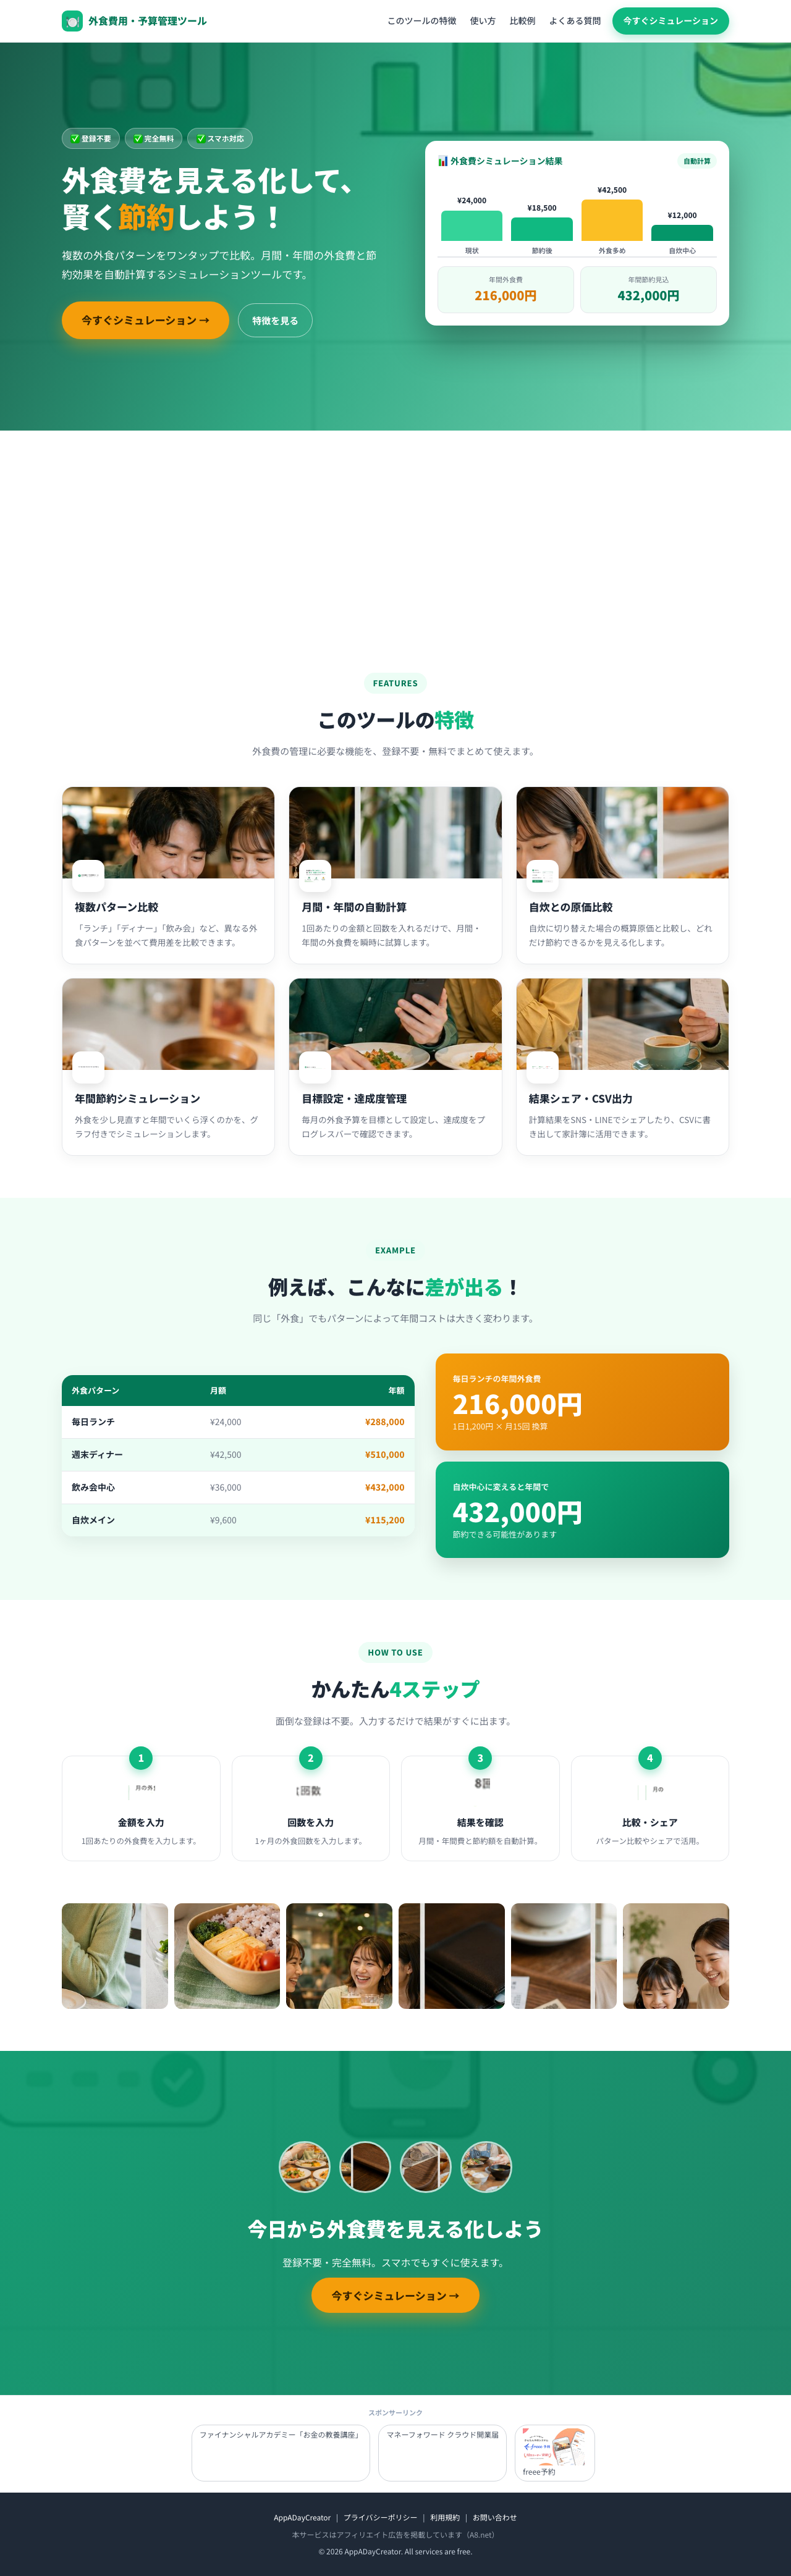
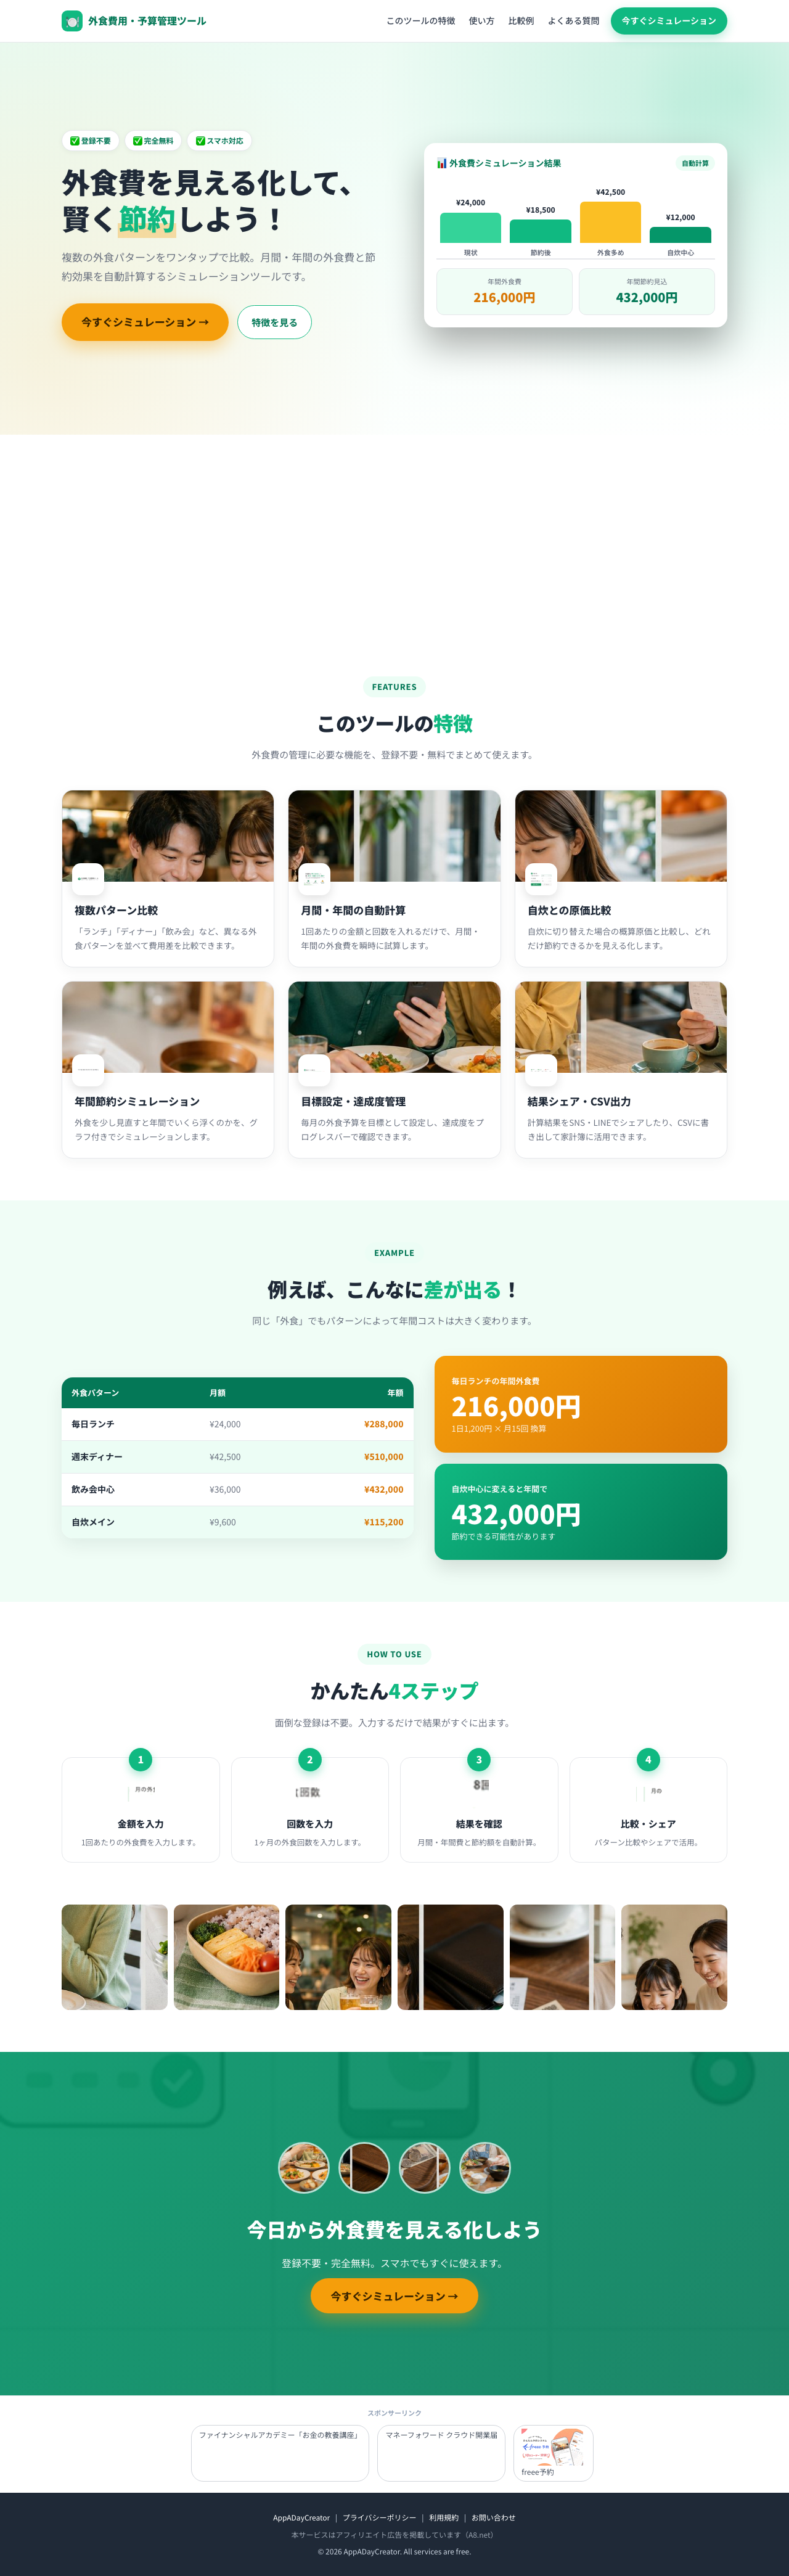
Refine: step7 compare-and-fix vs ChatGPT mockup

diff --git a/lp/index.html b/lp/index.html
@@ -53,40 +53,43 @@ a{text-decoration:none;color:inherit;}
 .nav-cta:hover{background:var(--green-d);}
 @media(max-width:860px){.nav-links{display:none;}}
 /* hero */
-.hero{position:relative;overflow:hidden;color:var(--ink);background:linear-gradient(168deg,#e9faf1 0%,#f3fdf8 42%,#ffffff 100%);}
-.hero-bg{position:absolute;inset:0;background:radial-gradient(circle at 86% 16%,rgba(16,185,129,.18),transparent 40%),radial-gradient(circle at 6% 78%,rgba(245,158,11,.12),transparent 44%);}
-.hero-ov{position:absolute;right:-90px;top:-90px;width:340px;height:340px;border-radius:50%;background:radial-gradient(circle,rgba(16,185,129,.10),transparent 70%);}
-.hero-in{position:relative;z-index:2;display:grid;grid-template-columns:1.05fr .95fr;gap:44px;align-items:center;padding:74px 20px 84px;max-width:1120px;margin:0 auto;}
-.hero-badges{display:flex;gap:8px;flex-wrap:wrap;margin-bottom:20px;}
-.hero-badges span{background:#fff;border:1px solid var(--line);color:var(--green-dd);font-size:12px;font-weight:700;padding:6px 13px;border-radius:999px;box-shadow:0 2px 8px rgba(2,44,34,.05);}
-.hero h1{font-size:46px;font-weight:900;line-height:1.28;letter-spacing:-.01em;margin-bottom:18px;color:var(--ink);}
-.hero h1 em{font-style:normal;color:var(--green);background:linear-gradient(transparent 64%,rgba(245,158,11,.32) 64%);padding:0 2px;}
-.hero p.lead{font-size:17px;line-height:1.85;color:var(--muted);margin-bottom:28px;max-width:30em;}
-.hero-cta{display:flex;gap:14px;flex-wrap:wrap;align-items:center;}
-.btn-primary{background:var(--accent);color:#3a2400;font-weight:800;font-size:17px;padding:16px 32px;border-radius:999px;box-shadow:0 10px 26px rgba(245,158,11,.4);transition:transform .15s,box-shadow .15s;}
+.hero{position:relative;overflow:hidden;color:var(--ink);background:linear-gradient(160deg,#e3f8ec 0%,#eefbf4 38%,#fbf7ee 78%,#fffdf8 100%);}
+.hero-bg{position:absolute;inset:0;background:radial-gradient(circle at 88% 12%,rgba(16,185,129,.22),transparent 42%),radial-gradient(circle at 4% 82%,rgba(245,158,11,.16),transparent 46%),radial-gradient(circle at 50% 120%,rgba(4,120,87,.1),transparent 55%);}
+.hero-bg::after{content:"";position:absolute;inset:0;background-image:radial-gradient(rgba(16,185,129,.07) 1.4px,transparent 1.4px);background-size:26px 26px;opacity:.6;}
+.hero-ov{position:absolute;left:-140px;top:-60px;width:560px;height:560px;border-radius:48% 52% 60% 40%;background:linear-gradient(140deg,rgba(253,246,231,.9),rgba(250,240,220,.5));filter:blur(2px);}
+.hero-ov2{position:absolute;right:-120px;top:-120px;width:420px;height:420px;border-radius:50%;background:radial-gradient(circle,rgba(16,185,129,.16),transparent 70%);}
+.hero-in{position:relative;z-index:2;display:grid;grid-template-columns:1.02fr 1.05fr;gap:52px;align-items:center;padding:104px 20px 116px;max-width:1120px;margin:0 auto;}
+.hero-badges{display:flex;gap:9px;flex-wrap:wrap;margin-bottom:26px;}
+.hero-badges span{background:#fff;border:1px solid var(--line);color:var(--green-dd);font-size:12.5px;font-weight:700;padding:7px 15px;border-radius:999px;box-shadow:0 3px 10px rgba(2,44,34,.07);}
+.hero h1{font-size:56px;font-weight:900;line-height:1.24;letter-spacing:-.015em;margin-bottom:22px;color:var(--ink);}
+.hero h1 em{font-style:normal;color:var(--green);background:linear-gradient(transparent 62%,rgba(245,158,11,.34) 62%);padding:0 3px;}
+.hero p.lead{font-size:18px;line-height:1.9;color:var(--muted);margin-bottom:34px;max-width:30em;}
+.hero-cta{display:flex;gap:16px;flex-wrap:wrap;align-items:center;}
+.btn-primary{background:var(--accent);color:#3a2400;font-weight:800;font-size:18px;padding:18px 38px;border-radius:999px;box-shadow:0 12px 30px rgba(245,158,11,.45);transition:transform .15s,box-shadow .15s;}
 .btn-primary:hover{transform:translateY(-2px);box-shadow:0 14px 30px rgba(245,158,11,.5);}
 .btn-ghost{color:var(--green-dd);font-weight:700;font-size:15px;padding:14px 22px;border-radius:999px;border:1.5px solid var(--green);background:#fff;}
 .btn-ghost:hover{background:var(--mint);}
 /* hero card mock */
-.shot{background:#fff;border-radius:18px;box-shadow:0 30px 60px rgba(0,0,0,.32);padding:20px;color:var(--ink);}
-.shot-head{display:flex;align-items:center;justify-content:space-between;margin-bottom:14px;}
-.shot-head b{font-size:14px;color:var(--green-dd);}
-.shot-head .pill{font-size:11px;font-weight:700;background:var(--mint);color:var(--green-dd);padding:3px 10px;border-radius:999px;}
-.shot-bars{display:flex;align-items:flex-end;gap:14px;height:130px;padding:10px 6px 0;border-bottom:2px solid var(--line);}
-.shot-bar{flex:1;display:flex;flex-direction:column;align-items:center;gap:6px;justify-content:flex-end;height:100%;}
-.shot-bar i{width:100%;border-radius:7px 7px 0 0;display:block;}
-.shot-bar small{font-size:11px;color:var(--muted);font-weight:600;}
-.shot-bar .v{font-size:12px;font-weight:800;color:var(--ink);}
-.shot-foot{display:grid;grid-template-columns:1fr 1fr;gap:10px;margin-top:14px;}
-.shot-foot div{background:var(--mint2);border:1px solid var(--line);border-radius:12px;padding:11px 12px;text-align:center;}
-.shot-foot small{font-size:11px;color:var(--muted);display:block;}
-.shot-foot b{font-size:20px;font-weight:900;}
+.shot{position:relative;background:#fff;border-radius:24px;box-shadow:0 40px 80px rgba(2,44,34,.34),0 8px 20px rgba(0,0,0,.1);padding:28px;color:var(--ink);transform:rotate(.4deg);}
+.shot::before{content:"";position:absolute;inset:-10px;z-index:-1;border-radius:30px;background:linear-gradient(150deg,rgba(16,185,129,.22),rgba(245,158,11,.18));filter:blur(14px);}
+.shot-head{display:flex;align-items:center;justify-content:space-between;margin-bottom:20px;}
+.shot-head b{font-size:16px;color:var(--green-dd);}
+.shot-head .pill{font-size:11.5px;font-weight:700;background:var(--mint);color:var(--green-dd);padding:4px 12px;border-radius:999px;}
+.shot-bars{display:flex;align-items:flex-end;gap:18px;height:180px;padding:14px 6px 0;border-bottom:2px solid var(--line);}
+.shot-bar{flex:1;display:flex;flex-direction:column;align-items:center;gap:8px;justify-content:flex-end;height:100%;}
+.shot-bar i{width:100%;border-radius:9px 9px 0 0;display:block;box-shadow:0 4px 10px rgba(0,0,0,.08);}
+.shot-bar small{font-size:12px;color:var(--muted);font-weight:600;}
+.shot-bar .v{font-size:13px;font-weight:800;color:var(--ink);}
+.shot-foot{display:grid;grid-template-columns:1fr 1fr;gap:14px;margin-top:20px;}
+.shot-foot div{background:var(--mint2);border:1px solid var(--line);border-radius:14px;padding:15px 14px;text-align:center;}
+.shot-foot small{font-size:12px;color:var(--muted);display:block;}
+.shot-foot b{font-size:25px;font-weight:900;}
 .shot-foot .a b{color:var(--accent-d);}
 .shot-foot .g b{color:var(--green-dd);}
-@media(max-width:860px){.hero-in{grid-template-columns:1fr;padding:48px 20px 56px;gap:34px;}.hero h1{font-size:33px;}}
+@media(max-width:860px){.hero-in{grid-template-columns:1fr;padding:60px 20px 64px;gap:40px;}.hero h1{font-size:36px;}.shot{transform:none;}}
 /* sections */
-section{padding:68px 0;}
-.sec-head{text-align:center;max-width:680px;margin:0 auto 44px;}
+section{padding:86px 0;}
+.sec-head{text-align:center;max-width:680px;margin:0 auto 52px;}
 .sec-head .eyebrow{display:inline-flex;align-items:center;gap:6px;color:var(--green-dd);font-weight:800;font-size:13px;letter-spacing:.06em;background:var(--mint);padding:6px 15px;border-radius:999px;margin-bottom:14px;}
 .sec-head h2{font-size:32px;font-weight:900;letter-spacing:-.01em;}
 .sec-head h2 em{font-style:normal;color:var(--green);}
@@ -177,6 +180,7 @@ footer .links a{margin:0 6px;}
 <section class="hero">
   <div class="hero-bg"></div>
   <div class="hero-ov"></div>
+  <div class="hero-ov2"></div>
   <div class="hero-in">
     <div>
       <div class="hero-badges"><span>✅ 登録不要</span><span>✅ 完全無料</span><span>✅ スマホ対応</span></div>

diff --git a/index.html b/index.html
@@ -114,34 +114,36 @@ body{background:#fff;font-family:'Noto Sans JP','Inter',sans-serif;}
 .rc-navcta{background:var(--g);color:#fff;font-weight:700;font-size:13.5px;padding:9px 17px;border-radius:999px;text-decoration:none;box-shadow:0 6px 15px rgba(16,185,129,.3);white-space:nowrap;}
 .rc-navcta:hover{background:var(--gd);}
 @media(max-width:820px){.rc-links{display:none;}}
-.rc-hero{position:relative;overflow:hidden;color:var(--ink);background:linear-gradient(168deg,#e9faf1 0%,#f3fdf8 42%,#ffffff 100%);}
-.rc-hero-bg{position:absolute;inset:0;background:radial-gradient(circle at 86% 16%,rgba(16,185,129,.18),transparent 40%),radial-gradient(circle at 6% 78%,rgba(245,158,11,.12),transparent 44%);}
-.rc-hero-ov{position:absolute;right:-90px;top:-90px;width:320px;height:320px;border-radius:50%;background:radial-gradient(circle,rgba(16,185,129,.10),transparent 70%);}
-.rc-hero-in{position:relative;z-index:2;max-width:1100px;margin:0 auto;padding:60px 18px 66px;display:grid;grid-template-columns:1.02fr .98fr;gap:38px;align-items:center;}
+.rc-hero{position:relative;overflow:hidden;color:var(--ink);background:linear-gradient(160deg,#e3f8ec 0%,#eefbf4 38%,#fbf7ee 78%,#fffdf8 100%);}
+.rc-hero-bg{position:absolute;inset:0;background:radial-gradient(circle at 88% 12%,rgba(16,185,129,.22),transparent 42%),radial-gradient(circle at 4% 82%,rgba(245,158,11,.16),transparent 46%);}
+.rc-hero-bg::after{content:"";position:absolute;inset:0;background-image:radial-gradient(rgba(16,185,129,.07) 1.4px,transparent 1.4px);background-size:26px 26px;opacity:.6;}
+.rc-hero-ov{position:absolute;left:-130px;top:-50px;width:520px;height:520px;border-radius:48% 52% 60% 40%;background:linear-gradient(140deg,rgba(253,246,231,.9),rgba(250,240,220,.45));filter:blur(2px);}
+.rc-hero-in{position:relative;z-index:2;max-width:1100px;margin:0 auto;padding:84px 18px 88px;display:grid;grid-template-columns:1.02fr .98fr;gap:46px;align-items:center;}
 .rc-hbadges{display:flex;gap:7px;flex-wrap:wrap;margin-bottom:16px;}
 .rc-hbadges span{background:#fff;border:1px solid var(--ln);color:var(--gdd);font-size:11.5px;font-weight:700;padding:5px 12px;border-radius:999px;box-shadow:0 2px 8px rgba(2,44,34,.05);}
-.rc-hero h1{font-size:40px;font-weight:900;line-height:1.3;margin:0 0 16px;color:var(--ink);}
+.rc-hero h1{font-size:48px;font-weight:900;line-height:1.26;letter-spacing:-.015em;margin:0 0 20px;color:var(--ink);}
 .rc-hero h1 em{font-style:normal;color:var(--g);background:linear-gradient(transparent 64%,rgba(245,158,11,.32) 64%);padding:0 2px;}
 .rc-hero .lead{font-size:16px;line-height:1.85;color:var(--mut);margin-bottom:24px;max-width:30em;}
 .rc-cta{display:flex;gap:12px;flex-wrap:wrap;}
 .rc-btn{background:var(--ac);color:#3a2400;font-weight:800;font-size:16px;padding:15px 30px;border-radius:999px;text-decoration:none;box-shadow:0 10px 24px rgba(245,158,11,.4);transition:transform .15s;}
 .rc-btn:hover{transform:translateY(-2px);}
 .rc-btn-gh{color:var(--gdd);font-weight:700;font-size:14px;padding:13px 20px;border-radius:999px;border:1.5px solid var(--g);background:#fff;text-decoration:none;}
-.rc-shot{background:#fff;border-radius:16px;box-shadow:0 26px 54px rgba(0,0,0,.32);padding:18px;color:var(--ink);}
-.rc-shot-h{display:flex;justify-content:space-between;align-items:center;margin-bottom:12px;}
-.rc-shot-h b{font-size:13px;color:var(--gdd);}
-.rc-shot-h .pl{font-size:10.5px;font-weight:700;background:var(--mint);color:var(--gdd);padding:3px 9px;border-radius:999px;}
-.rc-bars{display:flex;align-items:flex-end;gap:12px;height:118px;padding:8px 4px 0;border-bottom:2px solid var(--ln);}
-.rc-bars .b{flex:1;display:flex;flex-direction:column;align-items:center;gap:5px;justify-content:flex-end;height:100%;}
-.rc-bars .b i{width:100%;border-radius:6px 6px 0 0;}
-.rc-bars .b small{font-size:10.5px;color:var(--mut);font-weight:600;}
-.rc-bars .b .v{font-size:11px;font-weight:800;}
-.rc-shot-f{display:grid;grid-template-columns:1fr 1fr;gap:9px;margin-top:12px;}
-.rc-shot-f div{background:var(--mint2);border:1px solid var(--ln);border-radius:11px;padding:10px;text-align:center;}
-.rc-shot-f small{font-size:10.5px;color:var(--mut);display:block;}
-.rc-shot-f b{font-size:18px;font-weight:900;}
+.rc-shot{position:relative;background:#fff;border-radius:22px;box-shadow:0 38px 74px rgba(2,44,34,.32),0 8px 18px rgba(0,0,0,.1);padding:26px;color:var(--ink);transform:rotate(.4deg);}
+.rc-shot::before{content:"";position:absolute;inset:-10px;z-index:-1;border-radius:28px;background:linear-gradient(150deg,rgba(16,185,129,.2),rgba(245,158,11,.16));filter:blur(13px);}
+.rc-shot-h{display:flex;justify-content:space-between;align-items:center;margin-bottom:18px;}
+.rc-shot-h b{font-size:15px;color:var(--gdd);}
+.rc-shot-h .pl{font-size:11px;font-weight:700;background:var(--mint);color:var(--gdd);padding:4px 11px;border-radius:999px;}
+.rc-bars{display:flex;align-items:flex-end;gap:16px;height:168px;padding:12px 4px 0;border-bottom:2px solid var(--ln);}
+.rc-bars .b{flex:1;display:flex;flex-direction:column;align-items:center;gap:7px;justify-content:flex-end;height:100%;}
+.rc-bars .b i{width:100%;border-radius:8px 8px 0 0;box-shadow:0 4px 10px rgba(0,0,0,.08);}
+.rc-bars .b small{font-size:11.5px;color:var(--mut);font-weight:600;}
+.rc-bars .b .v{font-size:12.5px;font-weight:800;}
+.rc-shot-f{display:grid;grid-template-columns:1fr 1fr;gap:13px;margin-top:18px;}
+.rc-shot-f div{background:var(--mint2);border:1px solid var(--ln);border-radius:13px;padding:14px;text-align:center;}
+.rc-shot-f small{font-size:11.5px;color:var(--mut);display:block;}
+.rc-shot-f b{font-size:23px;font-weight:900;}
 .rc-shot-f .a b{color:var(--acd);}.rc-shot-f .g b{color:var(--gdd);}
-@media(max-width:820px){.rc-hero-in{grid-template-columns:1fr;padding:42px 18px 48px;gap:28px;}.rc-hero h1{font-size:30px;}}
+@media(max-width:820px){.rc-hero-in{grid-template-columns:1fr;padding:52px 18px 56px;gap:32px;}.rc-hero h1{font-size:33px;}.rc-shot{transform:none;}}
 .rc-sec{max-width:1100px;margin:0 auto;padding:58px 18px;}
 .rc-sh{text-align:center;max-width:640px;margin:0 auto 38px;}
 .rc-sh .eb{display:inline-block;color:var(--gdd);font-weight:800;font-size:12px;letter-spacing:.06em;background:var(--mint);padding:5px 14px;border-radius:999px;margin-bottom:12px;}